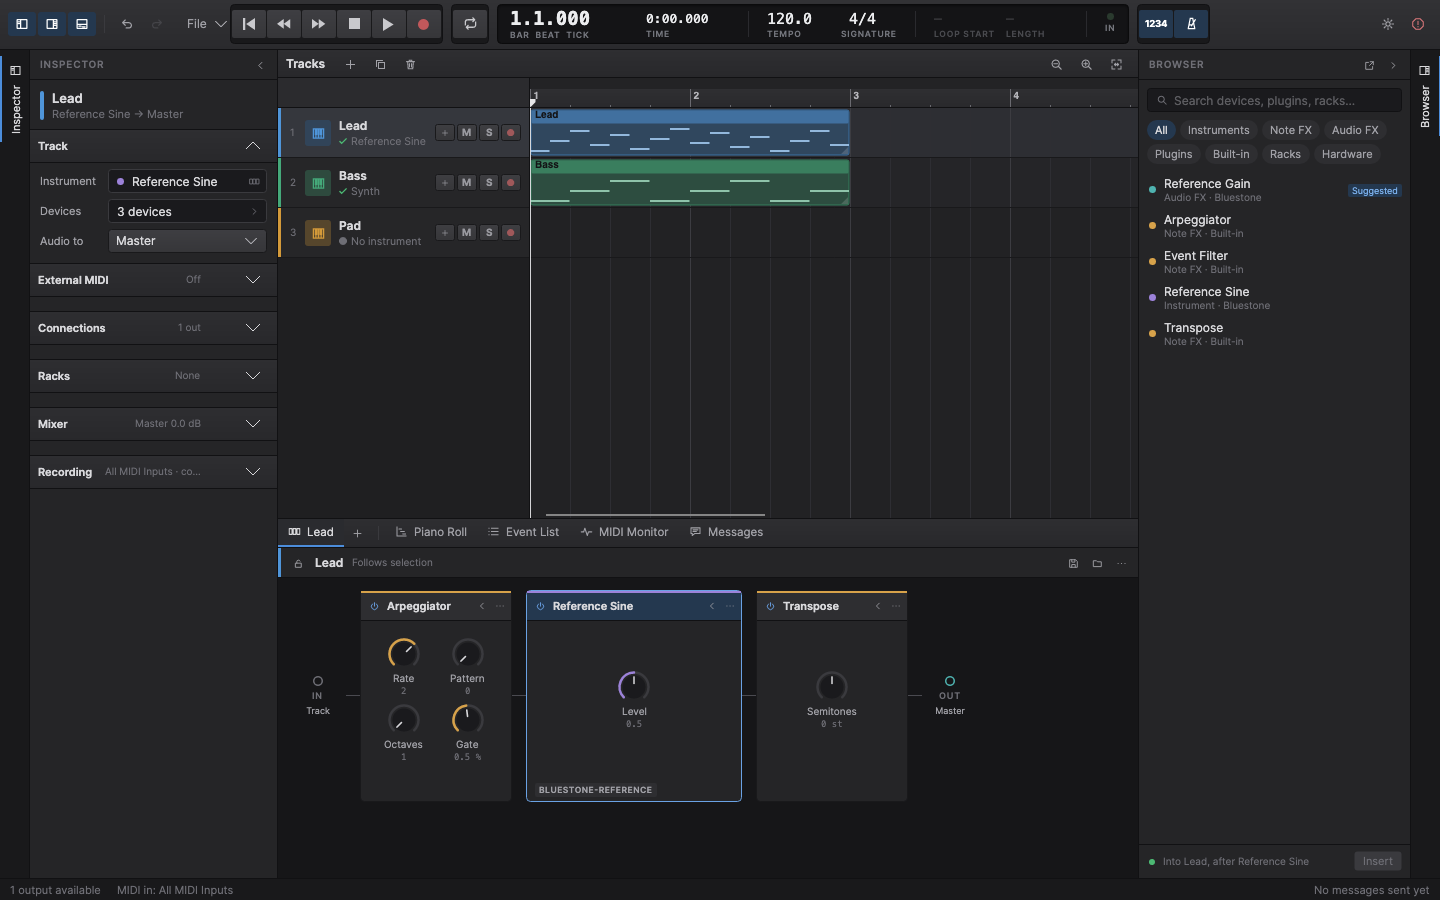
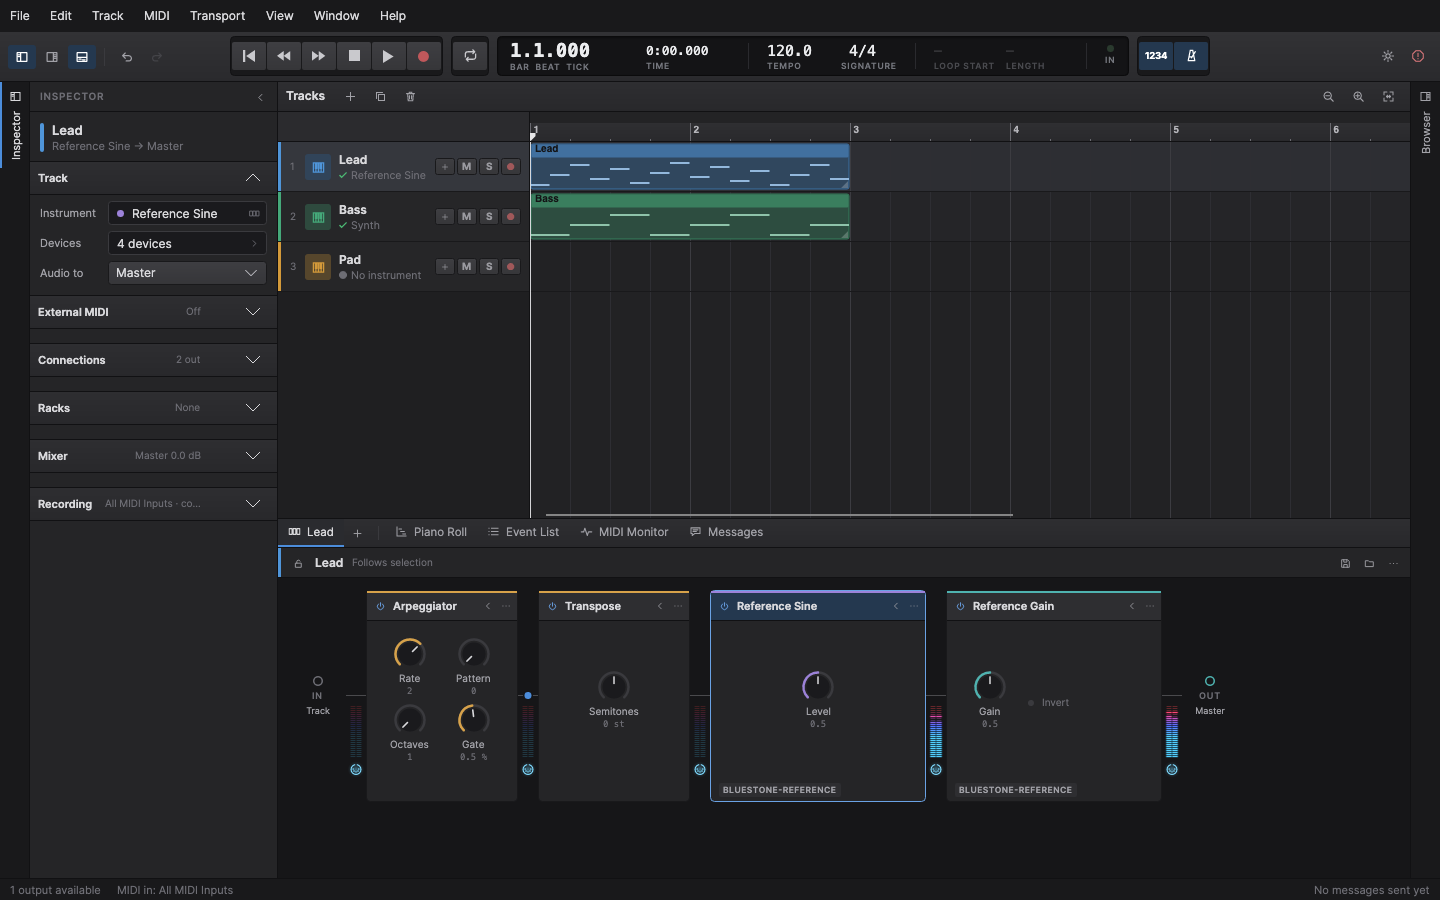
Show the signal indicators in the README's screenshot
The README's workspace screenshot now shows a Device View mid-performance: Arpeggiator,
Transpose, the reference instrument and gain, with notes held and audio flowing, so every
junction shows its signal, and one point routed on to another track. It is rendered by
TheReadmeScreenshot_ShowsAChainWithItsSignalAtEveryJunction, with built-in and reference
devices only.

diff --git a/src/dotnet/Bluestone.Tests.Ui/WorkspaceShowcaseTests.cs b/src/dotnet/Bluestone.Tests.Ui/WorkspaceShowcaseTests.cs
@@ -197,6 +197,58 @@ public sealed class WorkspaceShowcaseTests
     });
 
     /// <summary>
+    /// The README's screenshot (docs/images/bluestone-workspace.png): the workspace mid-performance, a Device View chain with
+    /// notes held and audio flowing, so every junction shows its signal, and one point routed on to another track. Only
+    /// built-in devices and Bluestone's reference plugins appear (TRADEMARKS.md: no third-party artwork).
+    /// </summary>
+    [Fact]
+    public Task TheReadmeScreenshot_ShowsAChainWithItsSignalAtEveryJunction() => HeadlessApp.RunAsync(async () =>
+    {
+        await using var plugins = Plugins();
+        await using var app = await OpenSongAsync(s => new PluginDeviceHost(plugins, s, [Sine, Gain]));
+        app.Window.Width = 1440;
+        app.Window.Height = 900;
+        app.ViewModel.Select(app.ViewModel.Tracks[0]);
+        app.Settle();
+        var view = app.ViewModel.DeviceView!;
+        view.InsertAt(0, BuiltIn("Arpeggiator"));
+        view.InsertAt(1, BuiltIn("Transpose"));
+        view.InsertAt(2, PluginDeviceHost.DefinitionOf(Sine));
+        view.InsertAt(3, PluginDeviceHost.DefinitionOf(Gain));
+        app.Settle();
+        await AppUnderTest.WaitUntilAsync(() => view.Devices.Count == 4 && view.Devices[2].Parameters.Count > 0 && view.Devices[3].Parameters.Count > 0, "the chain and the plugins' parameters");
+        await AppUnderTest.WaitUntilAsync(() => app.ViewModel.Tracks[0].StatusLine == Sine.DisplayName, "the track to name its instrument");
+
+        // The arpeggiated line also plays the Pad: the point after the Arpeggiator is routed on, and shows it.
+        app.Session.Execute(RoutingCommands.Connect(SignalConnection.Create(SignalKind.Events, SignalNode.Device(view.Devices[0].Id), SignalNode.Track(app.ViewModel.Tracks[2].Id)), app.Playback.Devices.Lookup));
+        app.ViewModel.Workspace.Browser.CollapseCommand.Execute(null);
+        app.Settle();
+        Assert.True(view.Devices[0].Output.IsRouted);
+
+        // Playing: notes held light the MIDI icons; the synth sounds and the gain after it lifts it towards the top.
+        var levels = new Dictionary<Guid, Bluestone.Audio.MeterReading>
+        {
+            [view.Devices[2].Output.Key] = new(0.42f, 0.36f, 0.22f, 0.19f),
+            [view.Devices[3].Output.Key] = new(0.79f, 0.7f, 0.43f, 0.38f),
+        };
+        app.ViewModel.JunctionLevelSource = key => levels.TryGetValue(key, out var reading) ? reading : null;
+        app.Playback.Live.Post(app.ViewModel.Tracks[0].Id, Midi.Wire.ChannelMessage.NoteOn(MidiChannel.FromIndex(0), new NoteNumber(60), new Velocity(100)), TimeSpan.Zero);
+        view.SelectedDevice = view.Devices[2];
+        app.ViewModel.Select(app.ViewModel.Tracks[0]);
+        for (var frame = 0; frame < 20; frame++)
+        {
+            app.ViewModel.OnFrame();
+            await Task.Delay(20);
+            app.Settle();
+        }
+
+        await app.SettleTransitionsAsync();
+        Assert.True(view.Input.NotesHeld);
+        Assert.True(view.Devices[3].Output.Levels.IsActive);
+        Assert.True(File.Exists(app.SaveFrame("readme-workspace")));
+    });
+
+    /// <summary>
     /// A receiver says where it takes its signal from and whether it mixes or replaces, its pill opens the source picker,
     /// and an effect whose sidechain is keyed shows the SC chip in its key's colour.
     /// </summary>

diff --git a/README.md b/README.md
@@ -18,7 +18,7 @@ Bluestone combines deep, flexible signal flow with clear, approachable workflows
 > [!IMPORTANT]
 > Bluestone is alpha software. It is usable for music production today and intended for musicians who enjoy adopting new creative tools early. Important production workflows are still incomplete, project formats may evolve, and several hardware and platform paths still need physical verification.
 
-![Bluestone's workspace: the inspector beside the arrangement, a Device View with an Arpeggiator, Bluestone's reference instrument, and Transpose, and the Browser](docs/images/bluestone-workspace.png)
+![Bluestone's workspace while playing: the inspector beside the arrangement, and a Device View whose chain (Arpeggiator, Transpose, Bluestone's reference instrument and gain) shows its signal between every device, glowing MIDI icons where notes are held and levels where audio flows](docs/images/bluestone-workspace.png)
 
 ## The idea
 
